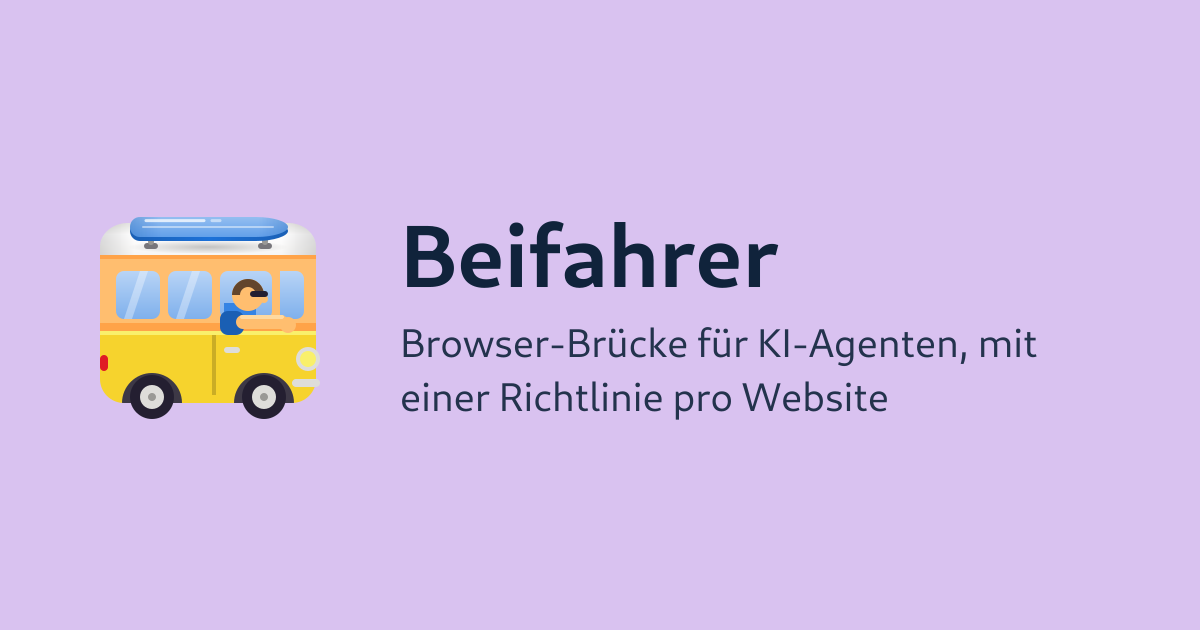
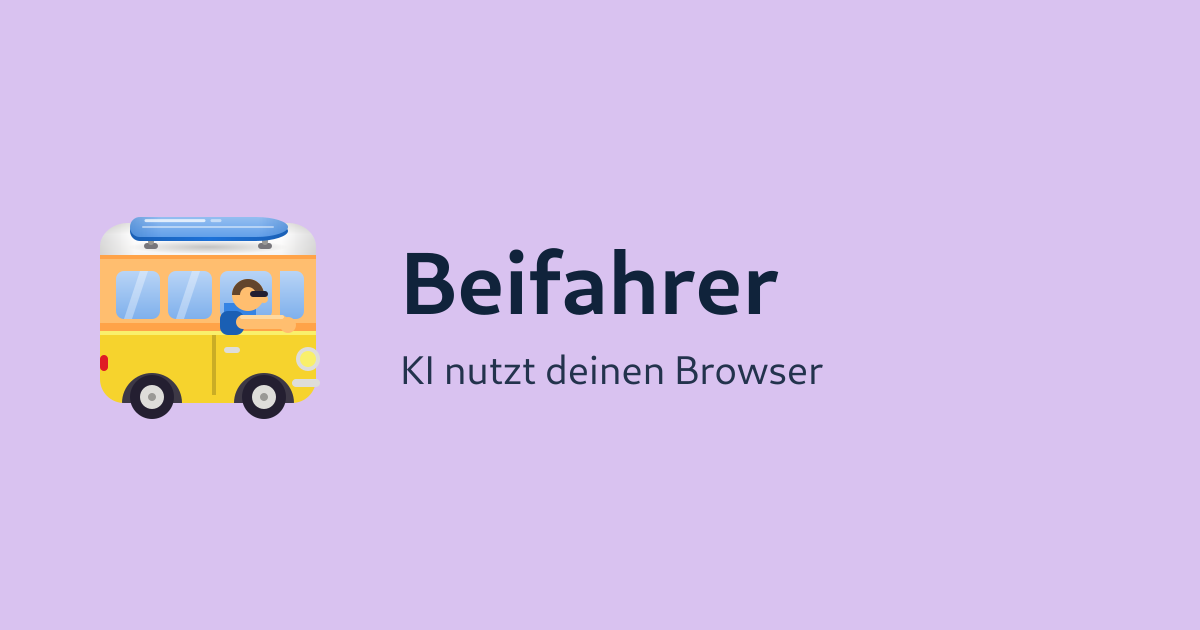
Deploying to gh-pages from @ JumpLink/beifahrer@3893cd3204a45e25710abc565eaec65ead61eea8 🚀

Changed region(s): [[0.3083, 0.3317, 0.8633, 0.6635]]

diff --git a/de/index.html b/de/index.html
@@ -3,14 +3,14 @@
 <head>
 <meta charset="utf-8">
 <meta name="viewport" content="width=device-width, initial-scale=1">
-<title>Beifahrer – Browser-Brücke für KI-Agenten, mit einer Richtlinie pro Website</title>
+<title>Beifahrer – KI nutzt deinen Browser</title>
 <meta name="description" content="Beifahrer lässt einen KI-Agenten in deinem eigenen Browser arbeiten, mit deinen Sitzungen und dem Tab, den du gerade ansiehst, statt in einem separaten…">
 <link rel="canonical" href="https://jumplink.eu/beifahrer/de/">
 <link rel="alternate" hreflang="en" href="https://jumplink.eu/beifahrer/en/">
 <link rel="alternate" hreflang="de" href="https://jumplink.eu/beifahrer/de/">
 <link rel="alternate" hreflang="x-default" href="https://jumplink.eu/beifahrer/en/">
 <meta property="og:type" content="website">
-<meta property="og:title" content="Beifahrer – Browser-Brücke für KI-Agenten, mit einer Richtlinie pro Website">
+<meta property="og:title" content="Beifahrer – KI nutzt deinen Browser">
 <meta property="og:description" content="Beifahrer lässt einen KI-Agenten in deinem eigenen Browser arbeiten, mit deinen Sitzungen und dem Tab, den du gerade ansiehst, statt in einem separaten…">
 <meta property="og:url" content="https://jumplink.eu/beifahrer/de/">
 <meta property="og:site_name" content="Beifahrer">
@@ -21,7 +21,7 @@
 <meta property="og:image:height" content="630">
 <meta property="og:image:alt" content="Beifahrer">
 <meta name="twitter:card" content="summary_large_image">
-<meta name="twitter:title" content="Beifahrer – Browser-Brücke für KI-Agenten, mit einer Richtlinie pro Website">
+<meta name="twitter:title" content="Beifahrer – KI nutzt deinen Browser">
 <meta name="twitter:description" content="Beifahrer lässt einen KI-Agenten in deinem eigenen Browser arbeiten, mit deinen Sitzungen und dem Tab, den du gerade ansiehst, statt in einem separaten…">
 <meta name="twitter:image" content="https://jumplink.eu/beifahrer/og-de.png">
 <meta name="theme-color" content="#d9c2f0" media="(prefers-color-scheme: light)">
@@ -169,7 +169,7 @@
 <main>
 <div class="column">
 <section class="about">
-<h2>Browser-Brücke für KI-Agenten, mit einer Richtlinie pro Website</h2>
+<h2>KI nutzt deinen Browser</h2>
 <p>Beifahrer lässt einen KI-Agenten in deinem eigenen Browser arbeiten, mit deinen Sitzungen und dem Tab, den du gerade ansiehst, statt in einem separaten automatisierten Browser.</p>
 <p>Eine Browser-Erweiterung spricht mit einer lokalen MCP-Brücke. Jede Website unterliegt einer Richtlinie, die du festlegst; was sie nicht erlaubt, wird abgelehnt.</p>
 <ul><li>Funktioniert in Firefox und Chromium-basierten Browsern</li><li>Richtlinie pro Website: erlaubt, nachfragen oder verboten</li><li>Bestätigungsdialoge für Aktionen ohne Vorab-Freigabe</li><li>Nur lokal: Die Brücke läuft auf deinem Rechner</li></ul>
@@ -185,7 +185,16 @@
 </div>
 <button class="release-more" type="button" hidden>Mehr anzeigen</button>
 </release-notes>
-
+<details class="card older">
+<summary>Ältere Versionen<svg class="icon summary-chevron" viewBox="0 0 16 16" width="16" height="16" fill="currentColor" aria-hidden="true"><path fill="none" stroke="currentColor" stroke-width="1.4" stroke-linecap="round" stroke-linejoin="round" d="m4.2 6.2 3.8 3.8 3.8-3.8"/></svg></summary>
+<article class="release-old">
+<div class="release-head">
+<h3>Änderungen in Version 0.1.5</h3>
+<p class="date-pill"><time datetime="2026-10-12">12. Oktober 2026</time></p>
+</div>
+<ul><li>Scripts get their own switch in the per-site policy, and you can stop script prompts</li><li>New beifahrer doctor command to check the setup</li><li>Desktop app: Browser and Agent pages with the pairing token and connect snippet</li></ul>
+</article>
+</details>
 </section>
 <section class="support">
 <a class="button support-cta" href="/beifahrer/de/support/"><svg class="icon" viewBox="0 0 16 16" width="16" height="16" fill="currentColor" aria-hidden="true"><path fill="none" stroke="currentColor" stroke-width="1.4" stroke-linecap="round" stroke-linejoin="round" d="M8 13.6 3.1 8.5a3.2 3.2 0 1 1 4.5-4.5l.4.4.4-.4a3.2 3.2 0 1 1 4.5 4.5L8 13.6Z"/></svg><span>Dieses Projekt unterstützen</span></a>

diff --git a/en/index.html b/en/index.html
@@ -3,14 +3,14 @@
 <head>
 <meta charset="utf-8">
 <meta name="viewport" content="width=device-width, initial-scale=1">
-<title>Beifahrer – Browser bridge for AI agents, under a per-site policy you control</title>
+<title>Beifahrer – Let AI use your browser</title>
 <meta name="description" content="Beifahrer lets an AI agent work in your own browser, with your own sessions and the tab you are looking at, instead of in a separate automated one.">
 <link rel="canonical" href="https://jumplink.eu/beifahrer/en/">
 <link rel="alternate" hreflang="en" href="https://jumplink.eu/beifahrer/en/">
 <link rel="alternate" hreflang="de" href="https://jumplink.eu/beifahrer/de/">
 <link rel="alternate" hreflang="x-default" href="https://jumplink.eu/beifahrer/en/">
 <meta property="og:type" content="website">
-<meta property="og:title" content="Beifahrer – Browser bridge for AI agents, under a per-site policy you control">
+<meta property="og:title" content="Beifahrer – Let AI use your browser">
 <meta property="og:description" content="Beifahrer lets an AI agent work in your own browser, with your own sessions and the tab you are looking at, instead of in a separate automated one.">
 <meta property="og:url" content="https://jumplink.eu/beifahrer/en/">
 <meta property="og:site_name" content="Beifahrer">
@@ -21,7 +21,7 @@
 <meta property="og:image:height" content="630">
 <meta property="og:image:alt" content="Beifahrer">
 <meta name="twitter:card" content="summary_large_image">
-<meta name="twitter:title" content="Beifahrer – Browser bridge for AI agents, under a per-site policy you control">
+<meta name="twitter:title" content="Beifahrer – Let AI use your browser">
 <meta name="twitter:description" content="Beifahrer lets an AI agent work in your own browser, with your own sessions and the tab you are looking at, instead of in a separate automated one.">
 <meta name="twitter:image" content="https://jumplink.eu/beifahrer/og-en.png">
 <meta name="theme-color" content="#d9c2f0" media="(prefers-color-scheme: light)">
@@ -169,7 +169,7 @@
 <main>
 <div class="column">
 <section class="about">
-<h2>Browser bridge for AI agents, under a per-site policy you control</h2>
+<h2>Let AI use your browser</h2>
 <p>Beifahrer lets an AI agent work in your own browser, with your own sessions and the tab you are looking at, instead of in a separate automated one.</p>
 <p>A browser extension talks to a local MCP bridge. Every site is covered by a policy you set, and anything the policy does not allow is refused.</p>
 <ul><li>Works in Firefox and Chromium-based browsers</li><li>Per-site policy: allowed, ask first, or forbidden</li><li>Confirmation prompts for actions you have not pre-approved</li><li>Local only: the bridge runs on your machine</li></ul>
@@ -185,7 +185,16 @@
 </div>
 <button class="release-more" type="button" hidden>Show more</button>
 </release-notes>
-
+<details class="card older">
+<summary>Older releases<svg class="icon summary-chevron" viewBox="0 0 16 16" width="16" height="16" fill="currentColor" aria-hidden="true"><path fill="none" stroke="currentColor" stroke-width="1.4" stroke-linecap="round" stroke-linejoin="round" d="m4.2 6.2 3.8 3.8 3.8-3.8"/></svg></summary>
+<article class="release-old">
+<div class="release-head">
+<h3>Changes in version 0.1.5</h3>
+<p class="date-pill"><time datetime="2026-10-12">October 12, 2026</time></p>
+</div>
+<ul><li>Scripts get their own switch in the per-site policy, and you can stop script prompts</li><li>New beifahrer doctor command to check the setup</li><li>Desktop app: Browser and Agent pages with the pairing token and connect snippet</li></ul>
+</article>
+</details>
 </section>
 <section class="support">
 <a class="button support-cta" href="/beifahrer/en/support/"><svg class="icon" viewBox="0 0 16 16" width="16" height="16" fill="currentColor" aria-hidden="true"><path fill="none" stroke="currentColor" stroke-width="1.4" stroke-linecap="round" stroke-linejoin="round" d="M8 13.6 3.1 8.5a3.2 3.2 0 1 1 4.5-4.5l.4.4.4-.4a3.2 3.2 0 1 1 4.5 4.5L8 13.6Z"/></svg><span>Support this project</span></a>
